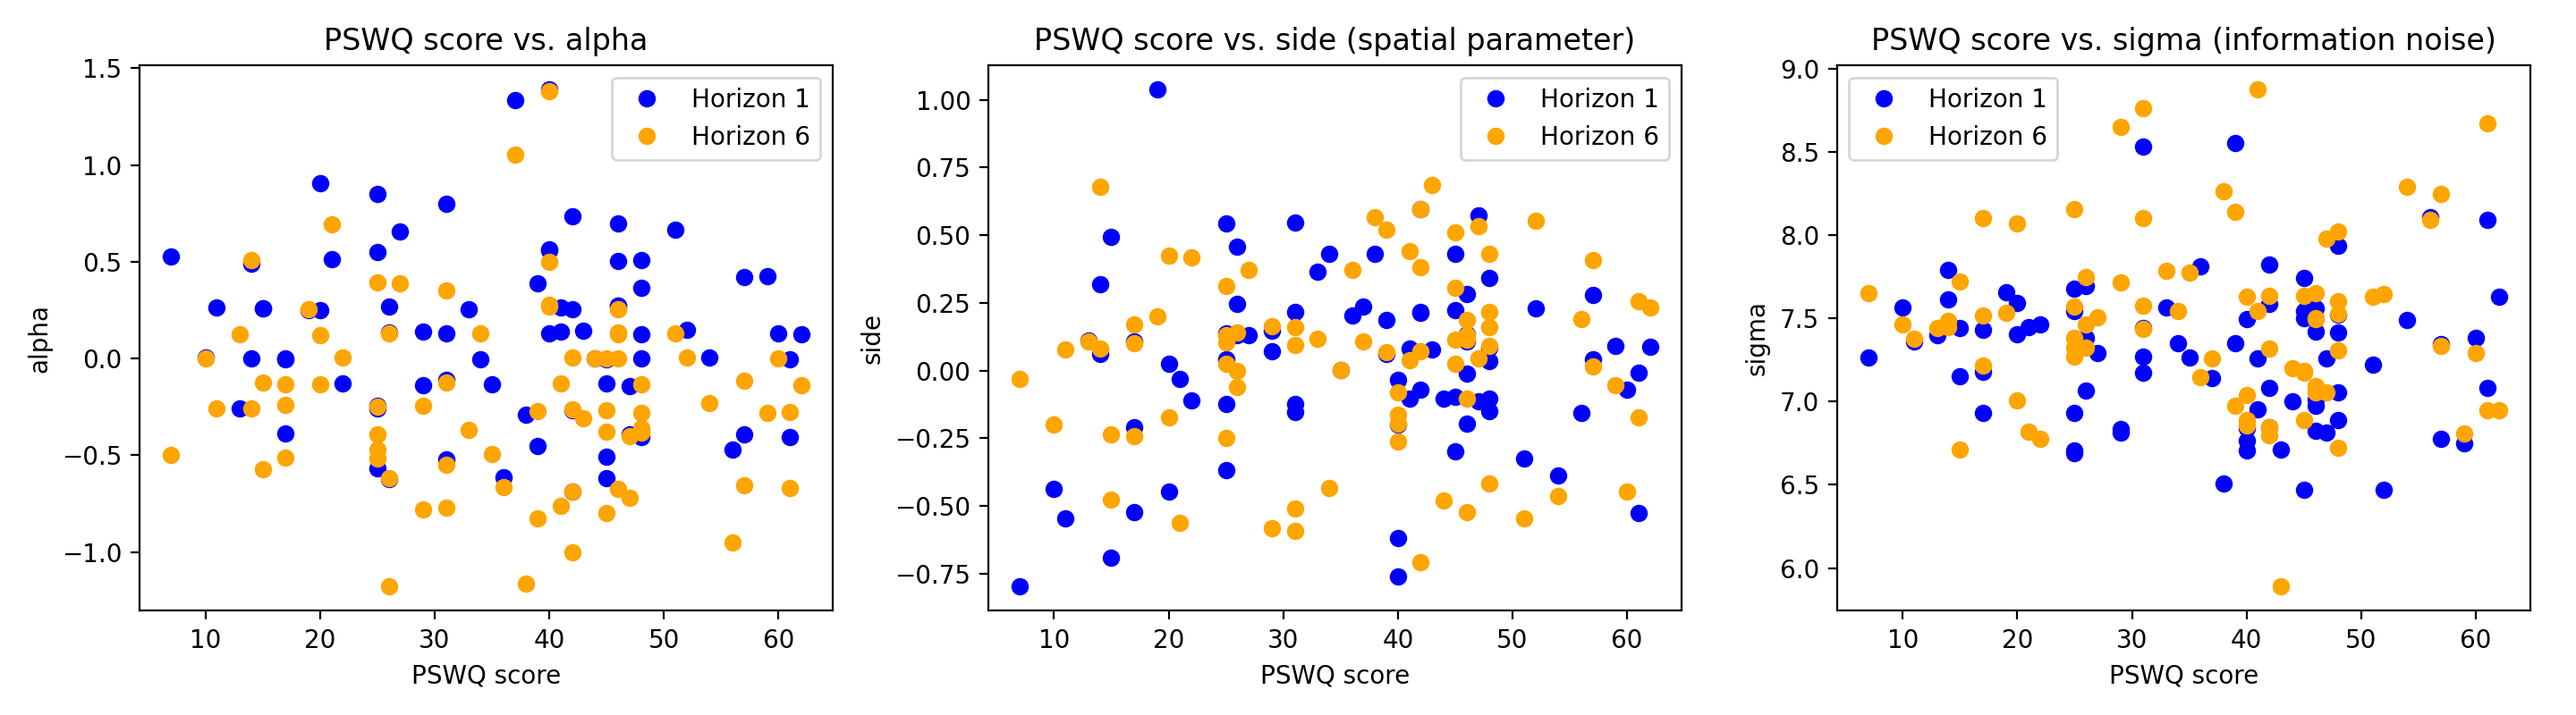
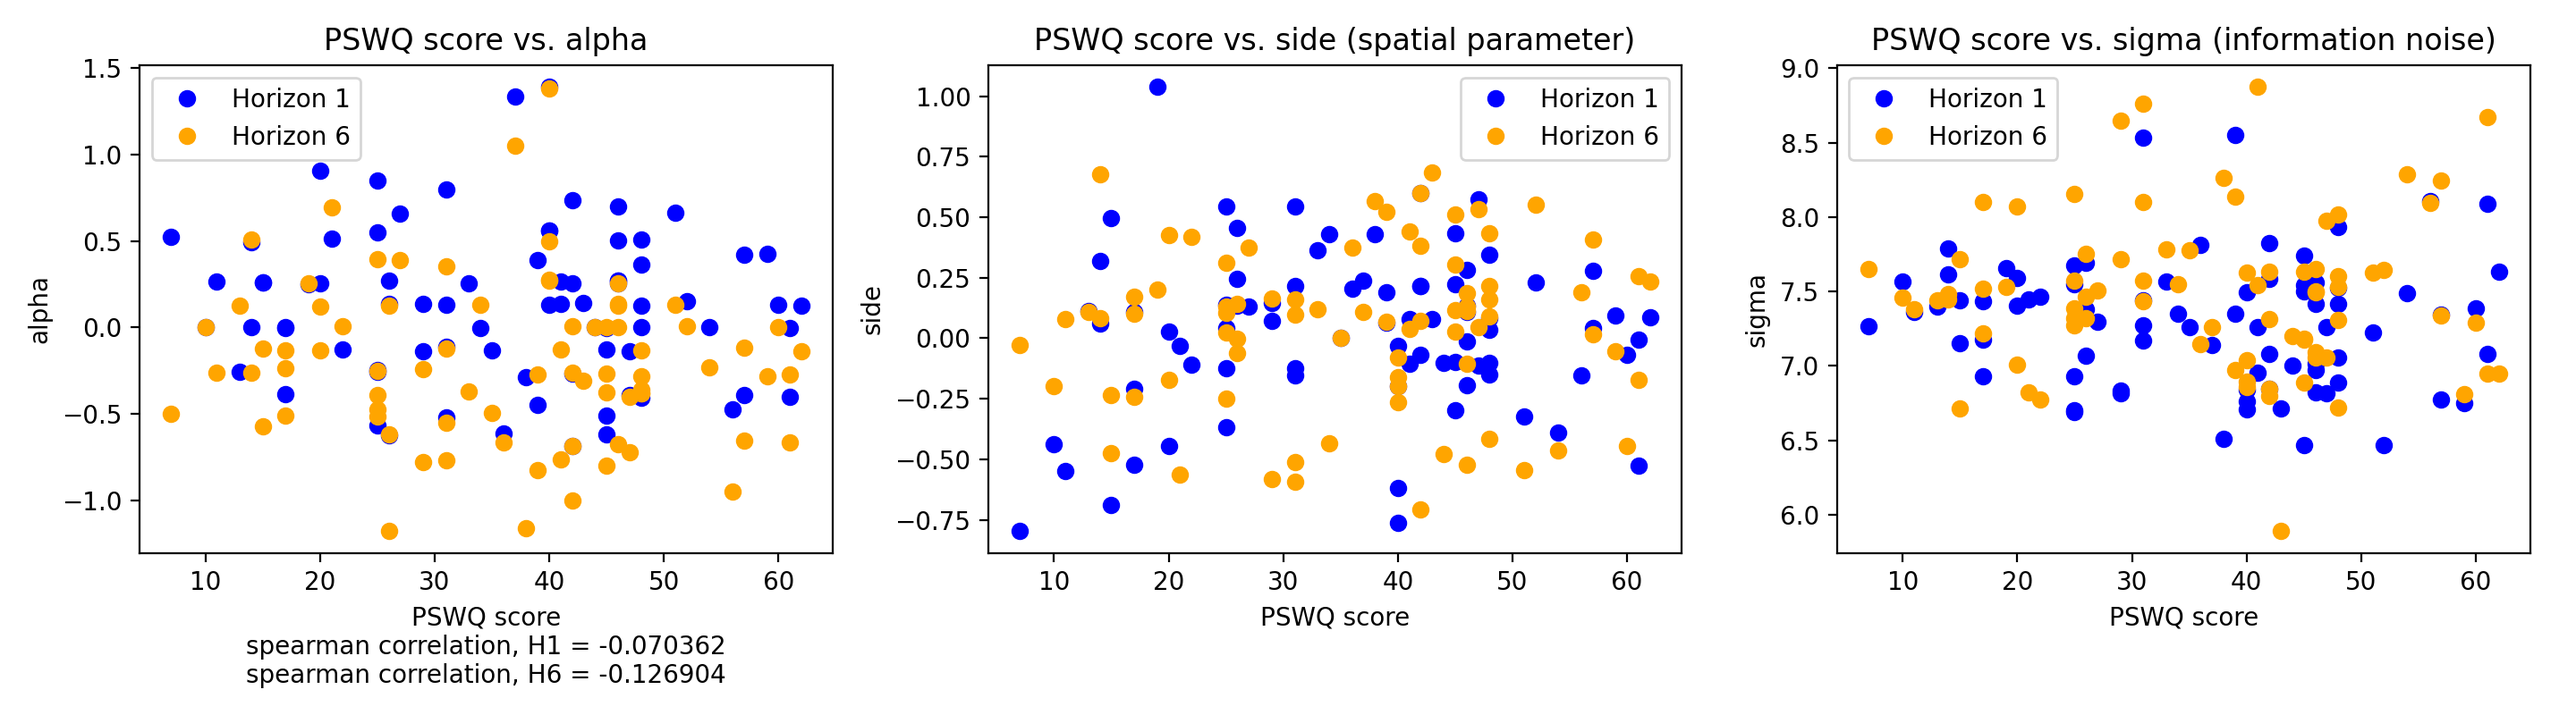
updated plots with correlations

diff --git a/pilot-v0.2/scripts/plot-data.py b/pilot-v0.2/scripts/plot-data.py
@@ -2,6 +2,7 @@
 import numpy as np
 import pandas as pd
 import matplotlib.pyplot as plt
+from scipy import stats
 
 # load global data
 anxiety = pd.read_csv('../data/surveys.csv').copy()
@@ -85,7 +86,7 @@ def get_ncs():
     return ncs_sums
 
 
-def plot_params(test, filename, figname):
+def scatter_params(test, filename, figname):
     scores = -1
     if test.upper() == 'PSWQ':
         scores = get_pswq()
@@ -101,7 +102,12 @@ def plot_params(test, filename, figname):
 
     alpha.plot(scores, alphas_h1, 'o', color='blue', label='Horizon 1')
     alpha.plot(scores, alphas_h6, 'o', color='orange', label='Horizon 6')
-    alpha.set(title='%s score vs. alpha' % test, xlabel='%s score' % test, ylabel='alpha')
+    rho_1 = stats.spearmanr(scores, alphas_h1)[0]
+    print(rho_1)
+    rho_6 = stats.spearmanr(scores, alphas_h6)[0]
+    print(rho_6)
+    corr = 'spearman correlation, H1 = %f\nspearman correlation, H6 = %f' % (rho_1, rho_6)
+    alpha.set(title='%s score vs. alpha' % test, xlabel='%s score\n%s' % (test, corr), ylabel='alpha')
     alpha.legend()
 
     side.plot(scores, sides_h1, 'o', color='blue', label='Horizon 1')
@@ -127,16 +133,16 @@ def main():
     #           '../figures,params/params_by_horizon.csv',
     #           'Penn State Worry Questionnaire score vs. %s',
     #           'PSWQ_params_by_horizon.png')
-    plot_params('PSWQ',
-                '../figures,params/params_stan.csv',
-                'PSWQ_params_stan.png')
+    scatter_params('PSWQ',
+                   '../figures,params/params_stan.csv',
+                   'PSWQ_params_stan.png')
     # plot_alpha_hist('../figures,params/params_stan.csv', 'alpha_hist_stan.png')
-    plot_params('IUS12',
-                '../figures,params/params_stan.csv',
-                'IUS12_params_stan.png')
-    plot_params('NCS',
-                '../figures,params/params_stan.csv',
-                'NCS_params_stan.png')
+    scatter_params('IUS12',
+                   '../figures,params/params_stan.csv',
+                   'IUS12_params_stan.png')
+    scatter_params('NCS',
+                   '../figures,params/params_stan.csv',
+                   'NCS_params_stan.png')
 
 
 if __name__ == '__main__':
